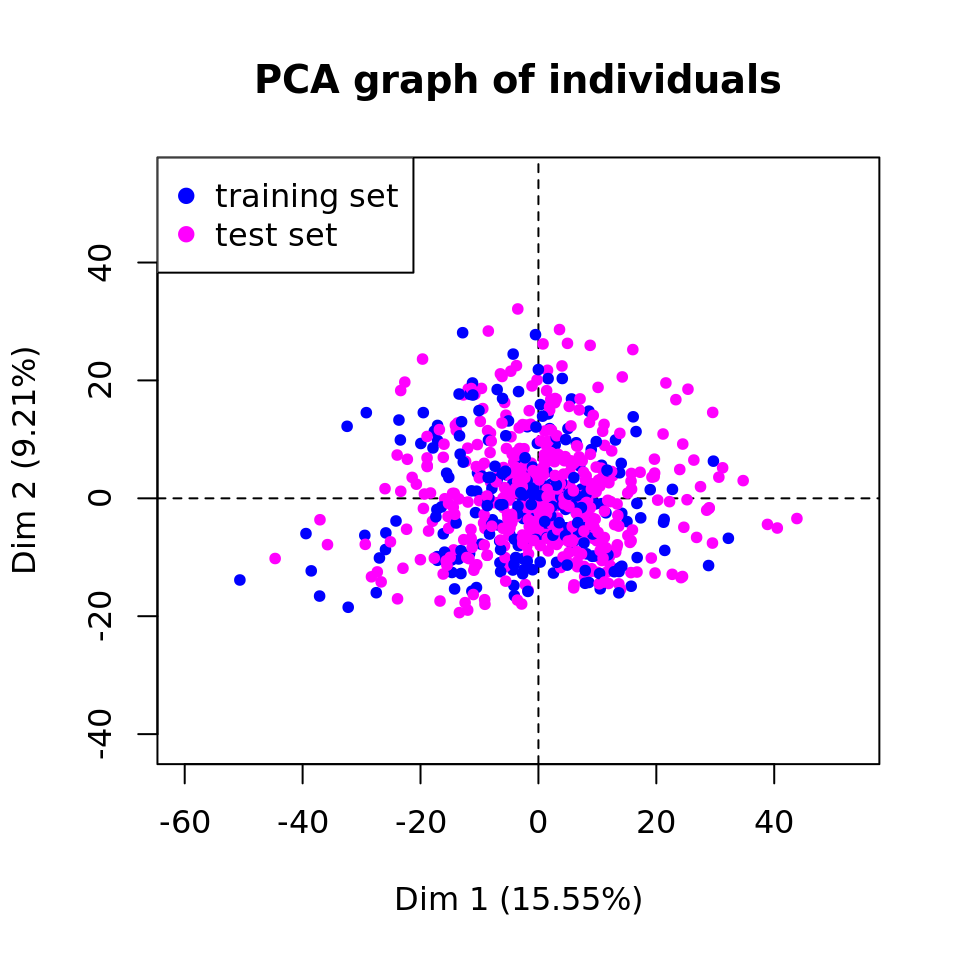
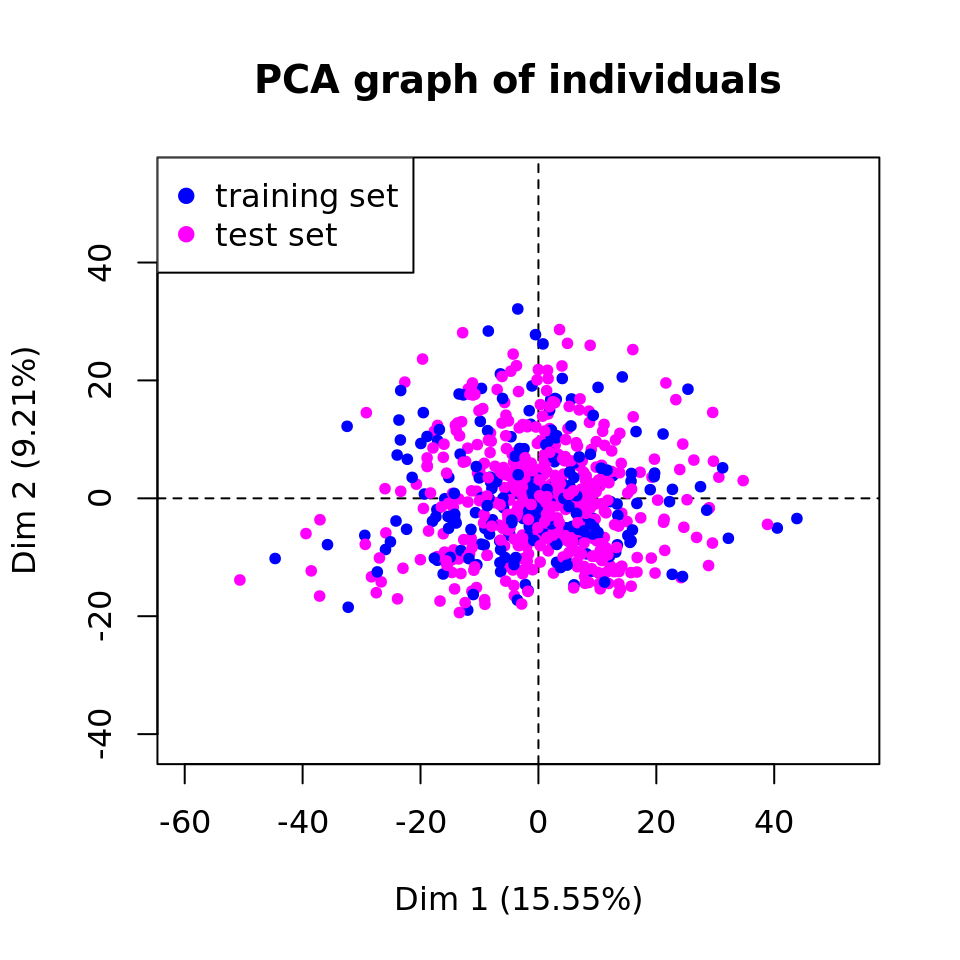
updated html

diff --git a/stat-R_2020/apprentissage/TP_apprentissage.html b/stat-R_2020/apprentissage/TP_apprentissage.html
@@ -356,8 +356,8 @@ div.tocify {
 </div>
 
 
-<p>Le but de ce TP est de développer des modèles statistiques pour prédire le type de cancer en utilisant les données de l’étude TCGA (<em>The Cancer Genome Atlas</em>; <a href="https://cancergenome.nih.gov/" class="uri">https://cancergenome.nih.gov/</a>) qui regroupent des données RNA-seq de patients atteints du cancer du sein.</p>
-<p>Pour ce TP, vous utiliserez les mêmes données que celles que vous avez utilisées pour le TP clustering (séance 4) :</p>
+<p>Le but de ce TP est de développer des modèles statistiques pour prédire le type de cancer en utilisant les données de l’étude TCGA (<em>The Cancer Genome Atlas</em>; <a href="https://cancergenome.nih.gov/" class="uri">https://cancergenome.nih.gov/</a>) qui regroupent des données RNA-seq de patients atteints d’un cancer du sein (Breast Invasice Cancer or BIC). Cela regroupe deux types de cancers invasifs: les carcinomes ductal et lobulaire. Les articles originaux de ces études sont ici: <a href="https://www.nature.com/articles/nature11412" class="uri">https://www.nature.com/articles/nature11412</a> et <a href="https://www.cell.com/cell/fulltext/S0092-8674(15)01195-2" class="uri">https://www.cell.com/cell/fulltext/S0092-8674(15)01195-2</a></p>
+<p>Pour ce TP, vous utiliserez les données suivantes :</p>
 <ul>
 <li>fichier <code>BIC_log2-norm-counts_edgeR_DEG_top_1000.tsv.gz</code> qui correspond au fichier d’expression pour les 1000 gènes (lignes) les plus significatifs pour 819 échantillons (colonnes).<br />
 </li>
@@ -669,7 +669,7 @@ Projection of the samples on the two first principal components.
 <div class="sourceCode" id="cb38"><pre class="sourceCode r"><code class="sourceCode r"><a class="sourceLine" id="cb38-1" data-line-number="1"><span class="kw">par</span>(<span class="dt">mfrow=</span><span class="kw">c</span>(<span class="dv">2</span>,<span class="dv">1</span>))</a>
 <a class="sourceLine" id="cb38-2" data-line-number="2"><span class="kw">barplot</span>(<span class="kw">table</span>(mat.app[,<span class="st">&quot;cancer.type&quot;</span>]), <span class="dt">main=</span><span class="st">&quot;jeu d&#39;apprentissage&quot;</span>)</a>
 <a class="sourceLine" id="cb38-3" data-line-number="3"><span class="kw">barplot</span>(<span class="kw">table</span>(mat.test[,<span class="st">&quot;cancer.type&quot;</span>]), <span class="dt">main=</span><span class="st">&quot;jeu de test&quot;</span>)</a></code></pre></div>
-<p><img src="figures/learning_unnamed-chunk-23-1.png" width="672" style="display: block; margin: auto;" /></p>
+<p><img src="figures/learning_barplot_types-1.png" width="672" style="display: block; margin: auto;" /></p>
 <div class="sourceCode" id="cb39"><pre class="sourceCode r"><code class="sourceCode r"><a class="sourceLine" id="cb39-1" data-line-number="1"><span class="kw">par</span>(<span class="dt">mfrow=</span><span class="kw">c</span>(<span class="dv">1</span>,<span class="dv">1</span>))</a></code></pre></div>
 <p>D’après les résultats obtenus, concluez sur la validité les échantillons d’apprentissage et test. Si vous concluez au fait que les deux échantillons ne sont pas valides, alors reprenez la procédure pour générer à nouveau des échantillons d’apprentissage et de test.</p>
 </div>
@@ -687,34 +687,34 @@ Projection of the samples on the two first principal components.
 node), split, n, loss, yval, (yprob)
       * denotes terminal node
 
-  1) root 474 197 Luminal.A (0.58438819 0.41561181)  
-    2) ENSG00000029725.16&gt;=19.04739 374 108 Luminal.A (0.71122995 0.28877005)  
-      4) ENSG00000043143.20&gt;=17.37762 341  79 Luminal.A (0.76832845 0.23167155)  
-        8) ENSG00000008838.18&lt; 20.71319 332  70 Luminal.A (0.78915663 0.21084337)  
-         16) ENSG00000054598.6&lt; 17.01421 286  46 Luminal.A (0.83916084 0.16083916)  
-           32) ENSG00000010704.18&lt; 17.86318 275  38 Luminal.A (0.86181818 0.13818182)  
-             64) ENSG00000049883.14&gt;=15.6608 263  31 Luminal.A (0.88212928 0.11787072)  
-              128) ENSG00000068366.19&lt; 19.43363 256  26 Luminal.A (0.89843750 0.10156250) *
-              129) ENSG00000068366.19&gt;=19.43363 7   2 no.Luminal.A (0.28571429 0.71428571) *
-             65) ENSG00000049883.14&lt; 15.6608 12   5 no.Luminal.A (0.41666667 0.58333333) *
-           33) ENSG00000010704.18&gt;=17.86318 11   3 no.Luminal.A (0.27272727 0.72727273) *
-         17) ENSG00000054598.6&gt;=17.01421 46  22 no.Luminal.A (0.47826087 0.52173913)  
-           34) ENSG00000038002.8&gt;=17.26743 10   0 Luminal.A (1.00000000 0.00000000) *
-           35) ENSG00000038002.8&lt; 17.26743 36  12 no.Luminal.A (0.33333333 0.66666667)  
-             70) ENSG00000014138.8&lt; 16.3815 22  10 Luminal.A (0.54545455 0.45454545)  
-              140) ENSG00000068024.16&lt; 17.3767 15   3 Luminal.A (0.80000000 0.20000000) *
-              141) ENSG00000068024.16&gt;=17.3767 7   0 no.Luminal.A (0.00000000 1.00000000) *
-             71) ENSG00000014138.8&gt;=16.3815 14   0 no.Luminal.A (0.00000000 1.00000000) *
-        9) ENSG00000008838.18&gt;=20.71319 9   0 no.Luminal.A (0.00000000 1.00000000) *
-      5) ENSG00000043143.20&lt; 17.37762 33   4 no.Luminal.A (0.12121212 0.87878788) *
-    3) ENSG00000029725.16&lt; 19.04739 100  11 no.Luminal.A (0.11000000 0.89000000)  
-      6) ENSG00000068650.18&lt; 16.30746 9   1 Luminal.A (0.88888889 0.11111111) *
-      7) ENSG00000068650.18&gt;=16.30746 91   3 no.Luminal.A (0.03296703 0.96703297) *</code></pre>
+  1) root 474 195 Luminal.A (0.58860759 0.41139241)  
+    2) ENSG00000004838.13&gt;=15.40368 263  49 Luminal.A (0.81368821 0.18631179)  
+      4) ENSG00000008838.18&lt; 20.69176 253  39 Luminal.A (0.84584980 0.15415020)  
+        8) ENSG00000010704.18&lt; 17.85282 245  32 Luminal.A (0.86938776 0.13061224)  
+         16) ENSG00000006432.15&gt;=15.02825 238  27 Luminal.A (0.88655462 0.11344538)  
+           32) ENSG00000029153.14&lt; 16.0293 186  11 Luminal.A (0.94086022 0.05913978) *
+           33) ENSG00000029153.14&gt;=16.0293 52  16 Luminal.A (0.69230769 0.30769231)  
+             66) ENSG00000066027.11&gt;=18.44318 44   9 Luminal.A (0.79545455 0.20454545)  
+              132) ENSG00000071127.16&lt; 21.14946 36   3 Luminal.A (0.91666667 0.08333333) *
+              133) ENSG00000071127.16&gt;=21.14946 8   2 no.Luminal.A (0.25000000 0.75000000) *
+             67) ENSG00000066027.11&lt; 18.44318 8   1 no.Luminal.A (0.12500000 0.87500000) *
+         17) ENSG00000006432.15&lt; 15.02825 7   2 no.Luminal.A (0.28571429 0.71428571) *
+        9) ENSG00000010704.18&gt;=17.85282 8   1 no.Luminal.A (0.12500000 0.87500000) *
+      5) ENSG00000008838.18&gt;=20.69176 10   0 no.Luminal.A (0.00000000 1.00000000) *
+    3) ENSG00000004838.13&lt; 15.40368 211  65 no.Luminal.A (0.30805687 0.69194313)  
+      6) ENSG00000029725.16&gt;=19.44574 103  43 Luminal.A (0.58252427 0.41747573)  
+       12) ENSG00000006459.10&gt;=18.04256 54  11 Luminal.A (0.79629630 0.20370370)  
+         24) ENSG00000070770.8&lt; 18.97366 47   4 Luminal.A (0.91489362 0.08510638) *
+         25) ENSG00000070770.8&gt;=18.97366 7   0 no.Luminal.A (0.00000000 1.00000000) *
+       13) ENSG00000006459.10&lt; 18.04256 49  17 no.Luminal.A (0.34693878 0.65306122)  
+         26) ENSG00000071073.12&lt; 18.34988 18   6 Luminal.A (0.66666667 0.33333333) *
+         27) ENSG00000071073.12&gt;=18.34988 31   5 no.Luminal.A (0.16129032 0.83870968) *
+      7) ENSG00000029725.16&lt; 19.44574 108   5 no.Luminal.A (0.04629630 0.95370370) *</code></pre>
 <ol start="2" style="list-style-type: decimal">
 <li>En utilisant la fonction <code>prp()</code> de la librairie <code>rpart.plot()</code>, représentez le modèle obtenu.</li>
 </ol>
 <div class="sourceCode" id="cb42"><pre class="sourceCode r"><code class="sourceCode r"><a class="sourceLine" id="cb42-1" data-line-number="1"><span class="kw">prp</span>(rpart.fit, <span class="dt">extra =</span> <span class="dv">2</span>)</a></code></pre></div>
-<p><img src="figures/learning_unnamed-chunk-25-1.png" width="672" style="display: block; margin: auto;" /></p>
+<p><img src="figures/learning_model_plot-1.png" width="672" style="display: block; margin: auto;" /></p>
 <ol start="3" style="list-style-type: decimal">
 <li>Sur les données de l’échantillon d’apprentissage calculez l’<em>accuracy</em> du modèle (=le taux de bien prédit) (<span class="math inline">\(Acc = \frac{VP+VN}{VP+VN+FP+FN}\)</span>) .</li>
 </ol>
@@ -740,13 +740,13 @@ Attention, la fonction <code>predict()</code>est une fonction générique. Dans 
 <tbody>
 <tr class="odd">
 <td>Luminal.A</td>
-<td align="right">260</td>
-<td align="right">30</td>
+<td align="right">263</td>
+<td align="right">24</td>
 </tr>
 <tr class="even">
 <td>no.Luminal.A</td>
-<td align="right">17</td>
-<td align="right">167</td>
+<td align="right">16</td>
+<td align="right">171</td>
 </tr>
 </tbody>
 </table>
@@ -755,7 +755,7 @@ Attention, la fonction <code>predict()</code>est une fonction générique. Dans 
 </ul>
 <div class="sourceCode" id="cb45"><pre class="sourceCode r"><code class="sourceCode r"><a class="sourceLine" id="cb45-1" data-line-number="1">acc.rpart.app &lt;-<span class="st"> </span><span class="kw">sum</span>(<span class="kw">diag</span>(tc.rpart.app))<span class="op">/</span><span class="kw">sum</span>(tc.rpart.app)</a>
 <a class="sourceLine" id="cb45-2" data-line-number="2">acc.rpart.app</a></code></pre></div>
-<pre><code>[1] 0.9008439</code></pre>
+<pre><code>[1] 0.9156118</code></pre>
 <ol start="4" style="list-style-type: decimal">
 <li>En utilisant la même procédure que celle utilisée pour calculer l’<em>accuracy</em> sur le jeu d’apprentissage, calculez l’<em>accuracy</em> du modèle sur l’échantillon test</li>
 </ol>
@@ -775,20 +775,20 @@ Attention, la fonction <code>predict()</code>est une fonction générique. Dans 
 <tbody>
 <tr class="odd">
 <td>Luminal.A</td>
-<td align="right">117</td>
-<td align="right">22</td>
+<td align="right">102</td>
+<td align="right">23</td>
 </tr>
 <tr class="even">
 <td>no.Luminal.A</td>
-<td align="right">28</td>
-<td align="right">71</td>
+<td align="right">41</td>
+<td align="right">72</td>
 </tr>
 </tbody>
 </table>
 <div class="sourceCode" id="cb48"><pre class="sourceCode r"><code class="sourceCode r"><a class="sourceLine" id="cb48-1" data-line-number="1">acc.rpart.test &lt;-<span class="st"> </span><span class="kw">sum</span>(<span class="kw">diag</span>(tc.rpart.test))<span class="op">/</span><span class="kw">sum</span>(tc.rpart.test)</a>
 <a class="sourceLine" id="cb48-2" data-line-number="2">acc.rpart.test</a></code></pre></div>
-<pre><code>[1] 0.789916</code></pre>
-<p>En comparant les performances obtenues sur l’échantillon d’apprentissage et de test, vous constatez que les performances obtenues sur l’échantillon d’apprentissage (Acc=0.9) sont plus grandes que celles obtenues sur l’échantillon test (Acc=0.79). Ainsi, vous observez un <strong>phénomène de sur-apprentissage</strong>. Le modèle apprend très bien les données de l’échantillon d’apprentissage, mais prédit moins bien les données du jeu test.<br />
+<pre><code>[1] 0.7310924</code></pre>
+<p>En comparant les performances obtenues sur l’échantillon d’apprentissage et de test, vous constatez que les performances obtenues sur l’échantillon d’apprentissage (Acc=0.92) sont plus grandes que celles obtenues sur l’échantillon test (Acc=0.73). Ainsi, vous observez un <strong>phénomène de sur-apprentissage</strong>. Le modèle apprend très bien les données de l’échantillon d’apprentissage, mais prédit moins bien les données du jeu test.<br />
 Pour diminuer ce sur-apprentissage, une des solutions serait d’élaguer l’arbre, c’est-à-dire d’enlever certaines branches. Ainsi, le nouveau modèle obtenu serait moins performant sur les données d’apprentissage, mais plus performant sur les données du jeu test.</p>
 </div>
 <div id="prédiction-du-type-de-cancer-en-utilisant-une-approche-de-random-forest" class="section level1">
@@ -812,11 +812,11 @@ Call:
                      Number of trees: 500
 No. of variables tried at each split: 31
 
-        OOB estimate of  error rate: 21.31%
+        OOB estimate of  error rate: 20.68%
 Confusion matrix:
              Luminal.A no.Luminal.A class.error
-Luminal.A          250           27  0.09747292
-no.Luminal.A        74          123  0.37563452</code></pre>
+Luminal.A          251           28   0.1003584
+no.Luminal.A        70          125   0.3589744</code></pre>
 <div class="sourceCode" id="cb53"><pre class="sourceCode r"><code class="sourceCode r"><a class="sourceLine" id="cb53-1" data-line-number="1"><span class="kw">kable</span>(<span class="kw">as.data.frame</span>(rf.fit<span class="op">$</span>confusion), </a>
 <a class="sourceLine" id="cb53-2" data-line-number="2">      <span class="dt">caption =</span> <span class="st">&quot;Confusion table obtained by Random Forest on the training set (learning errors).  &quot;</span>)</a></code></pre></div>
 <table>
@@ -832,15 +832,15 @@ no.Luminal.A        74          123  0.37563452</code></pre>
 <tbody>
 <tr class="odd">
 <td>Luminal.A</td>
-<td align="right">250</td>
-<td align="right">27</td>
-<td align="right">0.0974729</td>
+<td align="right">251</td>
+<td align="right">28</td>
+<td align="right">0.1003584</td>
 </tr>
 <tr class="even">
 <td>no.Luminal.A</td>
-<td align="right">74</td>
-<td align="right">123</td>
-<td align="right">0.3756345</td>
+<td align="right">70</td>
+<td align="right">125</td>
+<td align="right">0.3589744</td>
 </tr>
 </tbody>
 </table>
@@ -856,7 +856,7 @@ no.Luminal.A        74          123  0.37563452</code></pre>
 <a class="sourceLine" id="cb54-4" data-line-number="4">     <span class="dt">xlab =</span> <span class="st">&quot;Number of trees in the forest&quot;</span>, </a>
 <a class="sourceLine" id="cb54-5" data-line-number="5">     <span class="dt">ylab =</span> <span class="st">&quot;Misclassification error rate&quot;</span>)</a></code></pre></div>
 <div class="figure" style="text-align: center">
-<img src="figures/learning_unnamed-chunk-29-1.png" alt="Random forest: impact of the number of tree on the misclassification error rate (MER)" width="60%" />
+<img src="figures/learning_rf_plot-1.png" alt="Random forest: impact of the number of tree on the misclassification error rate (MER)" width="60%" />
 <p class="caption">
 Random forest: impact of the number of tree on the misclassification error rate (MER)
 </p>
@@ -885,7 +885,7 @@ Random forest: impact of the number of tree on the misclassification error rate 
 </ul>
 <div class="sourceCode" id="cb57"><pre class="sourceCode r"><code class="sourceCode r"><a class="sourceLine" id="cb57-1" data-line-number="1"><span class="kw">plot</span>(v.mtry, v.err, <span class="dt">type =</span><span class="st">&quot;b&quot;</span>, <span class="dt">xlab=</span><span class="st">&quot;mtry values&quot;</span>, <span class="dt">ylab=</span><span class="st">&quot;taux d&#39;erreur&quot;</span>, <span class="dt">xaxt=</span><span class="st">&quot;n&quot;</span>)</a>
 <a class="sourceLine" id="cb57-2" data-line-number="2"><span class="kw">axis</span>(<span class="dv">1</span>, <span class="dt">at=</span>v.mtry, <span class="dt">labels=</span>v.mtry, <span class="dt">las=</span><span class="dv">2</span>)</a></code></pre></div>
-<p><img src="figures/learning_unnamed-chunk-32-1.png" width="672" style="display: block; margin: auto;" /></p>
+<p><img src="figures/learning_error_plot-1.png" width="672" style="display: block; margin: auto;" /></p>
 <ul>
 <li>A partir de ce graphique, déterminez la valeur optimale de <code>mtry</code>.</li>
 </ul>
@@ -907,11 +907,11 @@ Call:
                      Number of trees: 200
 No. of variables tried at each split: 248
 
-        OOB estimate of  error rate: 19.62%
+        OOB estimate of  error rate: 18.78%
 Confusion matrix:
              Luminal.A no.Luminal.A class.error
-Luminal.A          246           31   0.1119134
-no.Luminal.A        62          135   0.3147208</code></pre>
+Luminal.A          256           23  0.08243728
+no.Luminal.A        66          129  0.33846154</code></pre>
 <ol start="3" style="list-style-type: decimal">
 <li>Calcul des performances du modèle <em>random forest</em></li>
 </ol>
@@ -928,8 +928,8 @@ no.Luminal.A        62          135   0.3147208</code></pre>
 <a class="sourceLine" id="cb61-7" data-line-number="7">tc.rf.app</a></code></pre></div>
 <pre><code>              
 pred.app       Luminal.A no.Luminal.A
-  Luminal.A          277            0
-  no.Luminal.A         0          197</code></pre>
+  Luminal.A          279            0
+  no.Luminal.A         0          195</code></pre>
 <div class="sourceCode" id="cb63"><pre class="sourceCode r"><code class="sourceCode r"><a class="sourceLine" id="cb63-1" data-line-number="1"><span class="co">#  accuracy* du modèle sur les données de l&#39;apprentissage</span></a>
 <a class="sourceLine" id="cb63-2" data-line-number="2">acc.rf.app &lt;-<span class="st"> </span><span class="kw">sum</span>(<span class="kw">diag</span>(tc.rf.app))<span class="op">/</span><span class="kw">sum</span>(tc.rf.app)</a>
 <a class="sourceLine" id="cb63-3" data-line-number="3">acc.rf.app</a></code></pre></div>
@@ -945,12 +945,12 @@ pred.app       Luminal.A no.Luminal.A
 <a class="sourceLine" id="cb65-6" data-line-number="6">tc.rf.test</a></code></pre></div>
 <pre><code>              
 pred.test      Luminal.A no.Luminal.A
-  Luminal.A          133           25
-  no.Luminal.A        12           68</code></pre>
+  Luminal.A          131           26
+  no.Luminal.A        12           69</code></pre>
 <div class="sourceCode" id="cb67"><pre class="sourceCode r"><code class="sourceCode r"><a class="sourceLine" id="cb67-1" data-line-number="1"><span class="co">#accuracy</span></a>
 <a class="sourceLine" id="cb67-2" data-line-number="2">acc.rf.test &lt;-<span class="st"> </span><span class="kw">sum</span>(<span class="kw">diag</span>(tc.rf.test))<span class="op">/</span><span class="kw">sum</span>(tc.rf.test)</a>
 <a class="sourceLine" id="cb67-3" data-line-number="3">acc.rf.test</a></code></pre></div>
-<pre><code>[1] 0.8445378</code></pre>
+<pre><code>[1] 0.8403361</code></pre>
 <ol start="4" style="list-style-type: decimal">
 <li><p>Comparez les performances des modèles de CART et de Random forest.</p></li>
 <li><p>Etude de l’importance des variables (ici les gènes) dans le modèle.</p></li>
@@ -959,7 +959,7 @@ pred.test      Luminal.A no.Luminal.A
 <li>Représentez graphiquement l’importance de chaque gène en utilisant la fonction <code>varImpPlot()</code></li>
 </ul>
 <div class="sourceCode" id="cb69"><pre class="sourceCode r"><code class="sourceCode r"><a class="sourceLine" id="cb69-1" data-line-number="1"><span class="kw">varImpPlot</span>(rf.fit, <span class="dt">n.var=</span><span class="dv">50</span>, <span class="dt">cex =</span> <span class="fl">0.7</span>, <span class="dt">type=</span><span class="dv">1</span>)</a></code></pre></div>
-<p><img src="figures/learning_unnamed-chunk-36-1.png" width="672" style="display: block; margin: auto;" /></p>
+<p><img src="figures/learning_gene_imp_plot-1.png" width="672" style="display: block; margin: auto;" /></p>
 <ul>
 <li><p>Identifiez les gènes qui permettent de différentier le cancer Luminal.A des autres cancers.</p></li>
 <li><p>Pour chaque gene sélectionné, tracez la distribution de l’expression du gène chez les patients atteints d’un cancer de type Luminal.A et chez les autres patients d’après les données d’apprentissage.</p></li>
@@ -971,7 +971,7 @@ pred.test      Luminal.A no.Luminal.A
 <a class="sourceLine" id="cb70-5" data-line-number="5"><span class="cf">for</span>(gene <span class="cf">in</span> gene.sel){</a>
 <a class="sourceLine" id="cb70-6" data-line-number="6">  <span class="kw">boxplot</span>(mat.app[,gene]<span class="op">~</span>mat.app[,<span class="dv">1</span>],<span class="dt">col=</span><span class="kw">c</span>(<span class="dv">2</span>,<span class="dv">3</span>), <span class="dt">main=</span>gene)</a>
 <a class="sourceLine" id="cb70-7" data-line-number="7">}</a></code></pre></div>
-<p><img src="figures/learning_unnamed-chunk-37-1.png" width="672" style="display: block; margin: auto;" /><img src="figures/learning_unnamed-chunk-37-2.png" width="672" style="display: block; margin: auto;" /></p>
+<p><img src="figures/learning_expr_distrib-1.png" width="672" style="display: block; margin: auto;" /><img src="figures/learning_expr_distrib-2.png" width="672" style="display: block; margin: auto;" /></p>
 <ul>
 <li>Représentez la matrice des données en focalisant sur les gènes sélectionnées et en utilisant une heatmap.</li>
 </ul>
@@ -1059,7 +1059,7 @@ pred.test      Luminal.A no.Luminal.A
 <a class="sourceLine" id="cb79-3" data-line-number="3"><span class="kw">table</span>(pred.uncl.rf)</a></code></pre></div>
 <pre><code>pred.uncl.rf
    Luminal.A no.Luminal.A 
-          51           56 </code></pre>
+          53           54 </code></pre>
 <ul>
 <li>Prédiction du type de cancer en utilisant le modèle SVM</li>
 </ul>
@@ -1068,16 +1068,16 @@ pred.test      Luminal.A no.Luminal.A
 <a class="sourceLine" id="cb81-3" data-line-number="3"><span class="kw">table</span>(pred.uncl.svm)</a></code></pre></div>
 <pre><code>pred.uncl.svm
    Luminal.A no.Luminal.A 
-          62           45 </code></pre>
+          64           43 </code></pre>
 <ul>
-<li>Calcul de la table de confusion entre les deux vecteurs de prédiction.</li>
+<li>Calcul de la table de confusion entre les deux vecteurs de prédiction</li>
 </ul>
 <div class="sourceCode" id="cb83"><pre class="sourceCode r"><code class="sourceCode r"><a class="sourceLine" id="cb83-1" data-line-number="1">tc &lt;-<span class="st"> </span><span class="kw">table</span>(pred.uncl.rf, pred.uncl.svm)</a>
 <a class="sourceLine" id="cb83-2" data-line-number="2">tc</a></code></pre></div>
 <pre><code>              pred.uncl.svm
 pred.uncl.rf   Luminal.A no.Luminal.A
-  Luminal.A           49            2
-  no.Luminal.A        13           43</code></pre>
+  Luminal.A           53            0
+  no.Luminal.A        11           43</code></pre>
 </div>
 <div id="prédiction-des-4-types-de-cancer" class="section level1">
 <h1><span class="header-section-number">8</span> Prédiction des 4 types de cancer</h1>
@@ -1107,11 +1107,11 @@ pred.uncl.rf   Luminal.A no.Luminal.A
 <li>Déterminez les paramètres <code>mtry</code> et <code>ntree</code> optimaux pour le random forest permettant de prédire les 4 types de cancer.</li>
 </ol>
 <ul>
-<li>Déterminez la valeur optimale du paramètre <code>ntree</code>.</li>
+<li>Déterminez la valeur optimale du paramètre <code>ntree</code></li>
 </ul>
 <div class="sourceCode" id="cb90"><pre class="sourceCode r"><code class="sourceCode r"><a class="sourceLine" id="cb90-1" data-line-number="1">rf.fit<span class="fl">.4</span> &lt;-<span class="st"> </span><span class="kw">randomForest</span>(cancer.type<span class="op">~</span>., <span class="dt">data=</span>mat.app<span class="fl">.4</span>)</a>
 <a class="sourceLine" id="cb90-2" data-line-number="2"><span class="kw">plot</span>(rf.fit<span class="fl">.4</span><span class="op">$</span>err.rate[,<span class="dv">1</span>], <span class="dt">type=</span><span class="st">&quot;l&quot;</span>, <span class="dt">ylab =</span> <span class="st">&quot;taux d&#39;erreur&quot;</span>, <span class="dt">xlab=</span><span class="st">&quot;nombre d&#39;arbres&quot;</span>)</a></code></pre></div>
-<p><img src="figures/learning_unnamed-chunk-51-1.png" width="672" style="display: block; margin: auto;" /></p>
+<p><img src="figures/learning_ntree_opt-1.png" width="672" style="display: block; margin: auto;" /></p>
 <ul>
 <li>Déterminez la valeur optimale du paramètre <code>mtry</code>.</li>
 </ul>
@@ -1125,7 +1125,7 @@ pred.uncl.rf   Luminal.A no.Luminal.A
 <a class="sourceLine" id="cb91-8" data-line-number="8"></a>
 <a class="sourceLine" id="cb91-9" data-line-number="9"><span class="kw">plot</span>(v.mtry, v.err, <span class="dt">type =</span><span class="st">&quot;b&quot;</span>, <span class="dt">xlab=</span><span class="st">&quot;mtry values&quot;</span>, <span class="dt">ylab=</span><span class="st">&quot;taux d&#39;erreur&quot;</span>, <span class="dt">xaxt=</span><span class="st">&quot;n&quot;</span>)</a>
 <a class="sourceLine" id="cb91-10" data-line-number="10"><span class="kw">axis</span>(<span class="dv">1</span>, <span class="dt">at=</span>v.mtry, <span class="dt">labels=</span>v.mtry, <span class="dt">las=</span><span class="dv">2</span>)</a></code></pre></div>
-<p><img src="figures/learning_unnamed-chunk-52-1.png" width="672" style="display: block; margin: auto;" /></p>
+<p><img src="figures/learning_mtry_opt-1.png" width="672" style="display: block; margin: auto;" /></p>
 <ol start="4" style="list-style-type: decimal">
 <li>Calculez le modèle avec les paramètres optimaux.<br />
 Calculez à nouveau le modèle sur l’échantillon d’apprentissage en utilisant les valeurs optimales des paramètres <code>mtry</code> et <code>ntree</code>. Dans la fonction <code>randomForest()</code>, ajouter l’argument <code>importance=TRUE</code>.</li>
@@ -1142,13 +1142,13 @@ Call:
                      Number of trees: 150
 No. of variables tried at each split: 124
 
-        OOB estimate of  error rate: 24.05%
+        OOB estimate of  error rate: 23.63%
 Confusion matrix:
            Basal.like HER2pos Luminal.A Luminal.B class.error
-Basal.like         74       0        16         1  0.18681319
-HER2pos             6       8         7         7  0.71428571
-Luminal.A           3       0       268         6  0.03249097
-Luminal.B           0       0        68        10  0.87179487</code></pre>
+Basal.like         72       1        17         0  0.20000000
+HER2pos             6       0        11         8  1.00000000
+Luminal.A           1       0       271         7  0.02867384
+Luminal.B           1       0        60        19  0.76250000</code></pre>
 <ol start="5" style="list-style-type: decimal">
 <li>Calculez les performances du modèle <em>random forest</em> sur l’échantillon d’apprentissage et de test.</li>
 </ol>
@@ -1160,10 +1160,10 @@ Luminal.B           0       0        68        10  0.87179487</code></pre>
 <a class="sourceLine" id="cb95-3" data-line-number="3">tc.rf4.app</a></code></pre></div>
 <pre><code>            
 pred.app.4   Basal.like HER2pos Luminal.A Luminal.B
-  Basal.like         91       0         0         0
-  HER2pos             0      28         0         0
-  Luminal.A           0       0       277         0
-  Luminal.B           0       0         0        78</code></pre>
+  Basal.like         90       0         0         0
+  HER2pos             0      25         0         0
+  Luminal.A           0       0       279         0
+  Luminal.B           0       0         0        80</code></pre>
 <div class="sourceCode" id="cb97"><pre class="sourceCode r"><code class="sourceCode r"><a class="sourceLine" id="cb97-1" data-line-number="1">acc.rf4.app &lt;-<span class="st"> </span><span class="kw">sum</span>(<span class="kw">diag</span>(tc.rf4.app))<span class="op">/</span><span class="kw">sum</span>(tc.rf4.app)</a>
 <a class="sourceLine" id="cb97-2" data-line-number="2">acc.rf4.app</a></code></pre></div>
 <pre><code>[1] 1</code></pre>
@@ -1176,13 +1176,13 @@ pred.app.4   Basal.like HER2pos Luminal.A Luminal.B
 <a class="sourceLine" id="cb99-4" data-line-number="4">tc.rf4.test</a></code></pre></div>
 <pre><code>            
 pred.test.4  Basal.like HER2pos Luminal.A Luminal.B
-  Basal.like         36       7         1         1
+  Basal.like         37       4         3         0
   HER2pos             0       1         0         0
-  Luminal.A           4       1       143        29
-  Luminal.B           0       4         1        10</code></pre>
+  Luminal.A           4       4       137        28
+  Luminal.B           0       7         3        10</code></pre>
 <div class="sourceCode" id="cb101"><pre class="sourceCode r"><code class="sourceCode r"><a class="sourceLine" id="cb101-1" data-line-number="1">acc.rf4.test &lt;-<span class="st"> </span><span class="kw">sum</span>(<span class="kw">diag</span>(tc.rf4.test))<span class="op">/</span><span class="kw">sum</span>(tc.rf4.test)</a>
 <a class="sourceLine" id="cb101-2" data-line-number="2">acc.rf4.test</a></code></pre></div>
-<pre><code>[1] 0.7983193</code></pre>
+<pre><code>[1] 0.7773109</code></pre>
 <ol start="6" style="list-style-type: decimal">
 <li>Etude de l’importance des descripteurs dans le modèle.</li>
 </ol>
@@ -1190,7 +1190,7 @@ pred.test.4  Basal.like HER2pos Luminal.A Luminal.B
 <li>Représentez graphiquement la valeur d’importance des différents gènes en utilisant la fonction <code>varImpPlot()</code></li>
 </ul>
 <div class="sourceCode" id="cb103"><pre class="sourceCode r"><code class="sourceCode r"><a class="sourceLine" id="cb103-1" data-line-number="1"><span class="kw">varImpPlot</span>(rf.fit<span class="fl">.4</span>, <span class="dt">n.var=</span><span class="dv">50</span>, <span class="dt">cex =</span> <span class="fl">0.6</span>, <span class="dt">type=</span><span class="dv">1</span>)</a></code></pre></div>
-<p><img src="figures/learning_unnamed-chunk-56-1.png" width="672" style="display: block; margin: auto;" /></p>
+<p><img src="figures/learning_gene_imp_plot_four_types-1.png" width="672" style="display: block; margin: auto;" /></p>
 </div>
 
 
